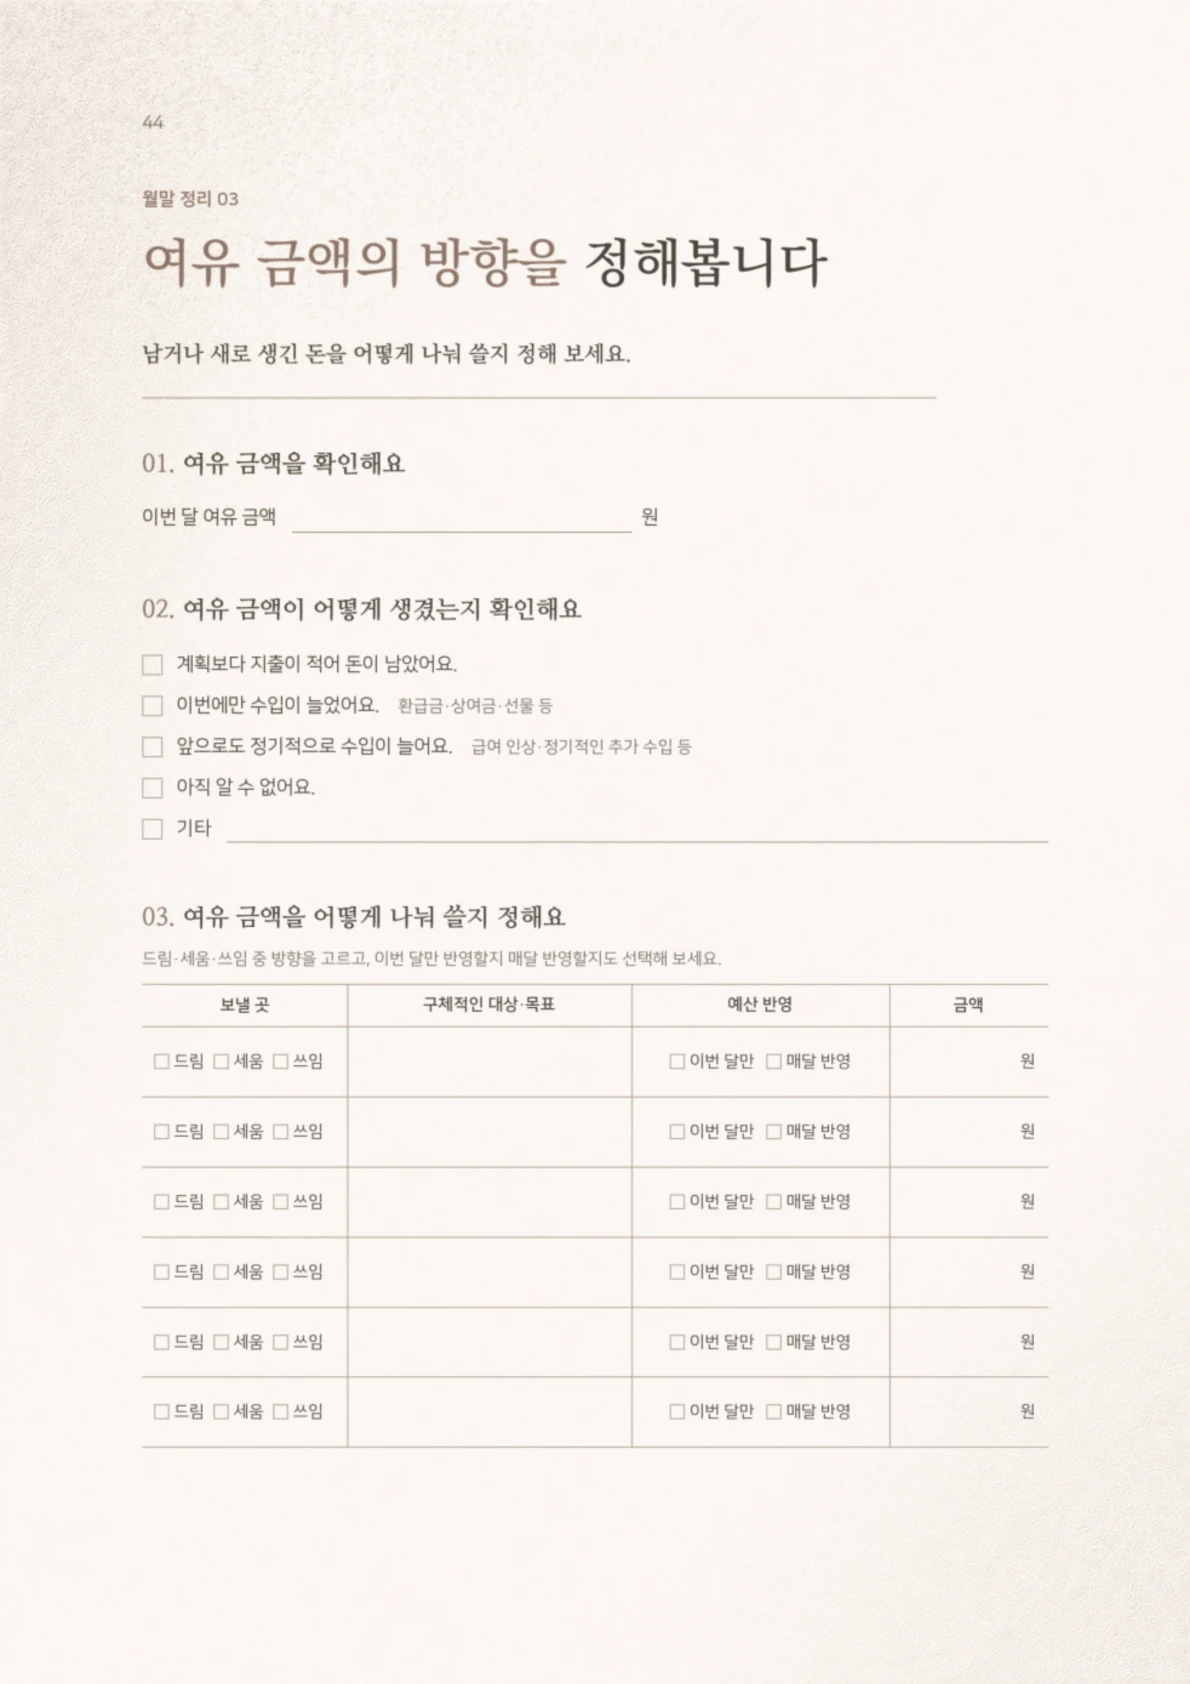
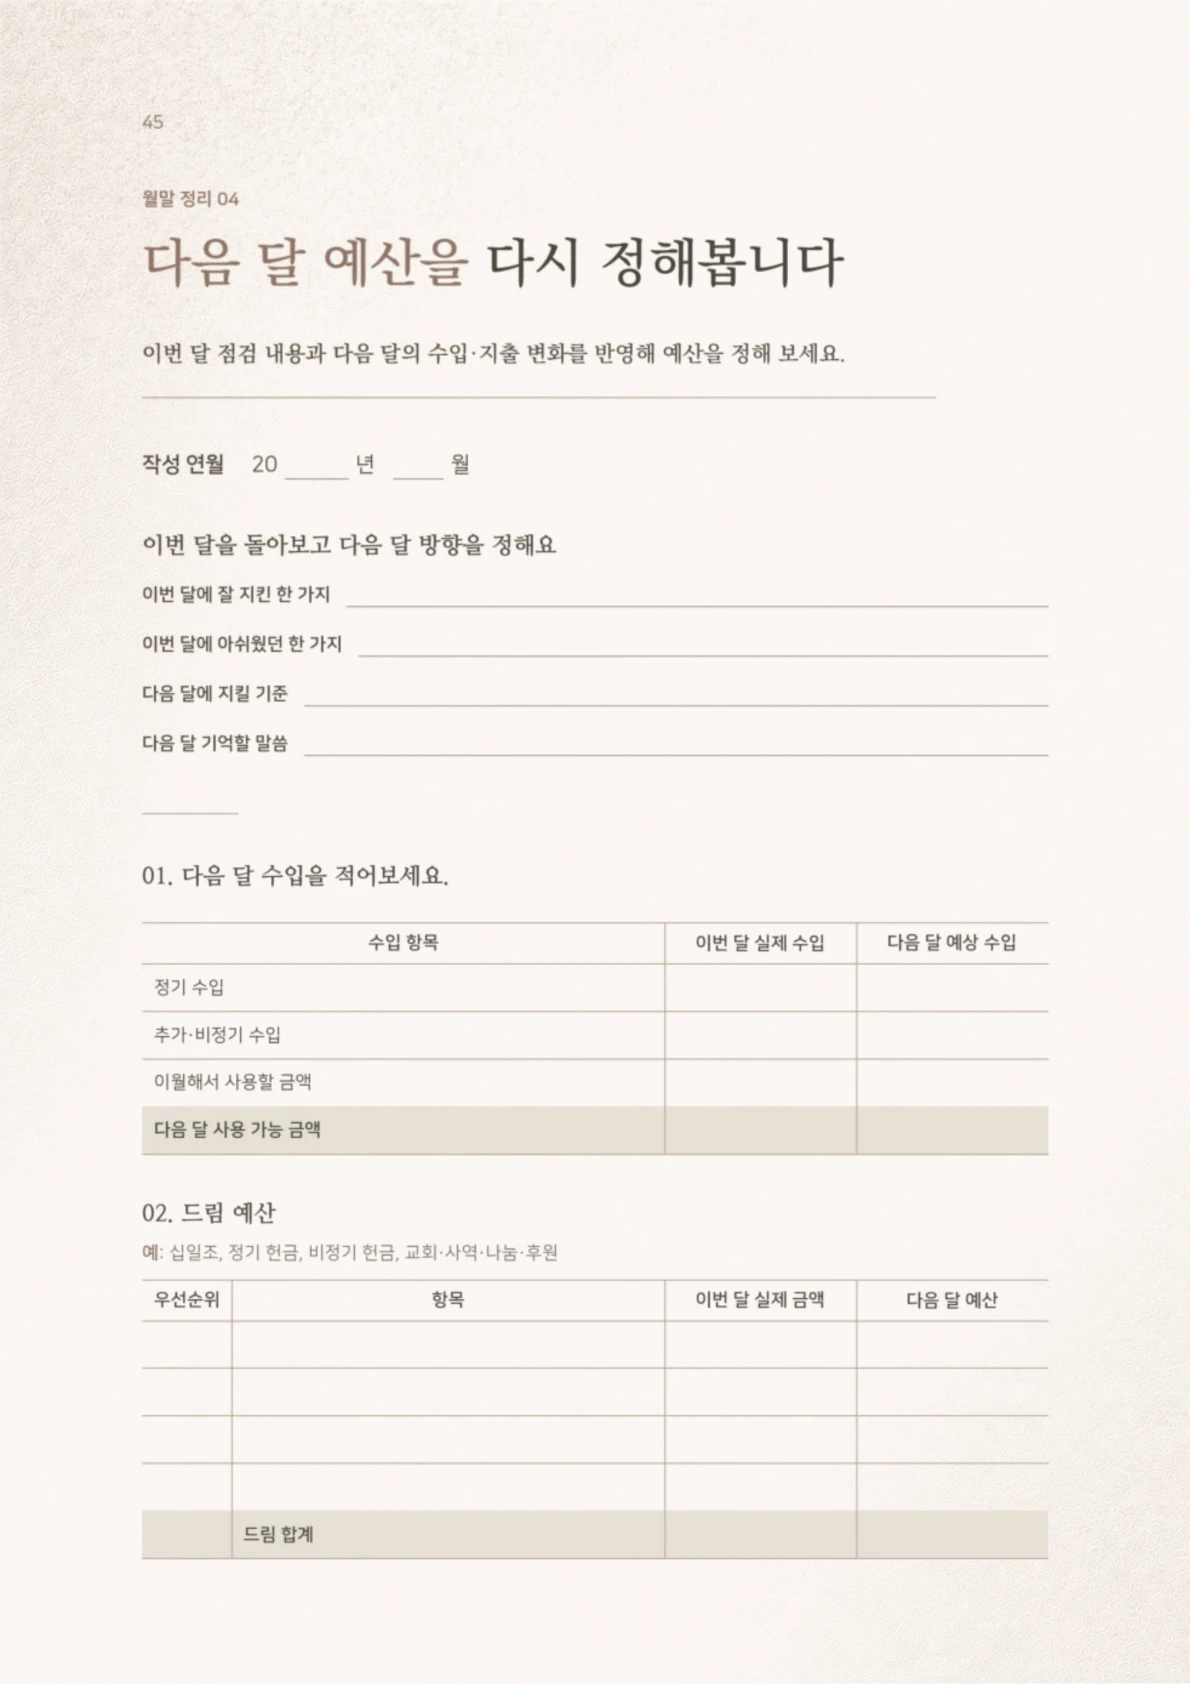
Refine workbook offer and pricing

diff --git a/src/styles.css b/src/styles.css
@@ -690,9 +690,9 @@
 .money-report-offer-page { position: relative; width: min(100%,720px); min-height: 100svh; margin: 0 auto; background: #fffdf9; color: #493c32; }
 .money-report-offer-close { position: sticky; z-index: 3; top: 14px; display: grid; width: 42px; height: 42px; margin: 0 14px -42px auto; place-items: center; border: 1px solid #d8c4b7; border-radius: 50%; background: rgba(255,253,249,.9); color: #493c32; backdrop-filter: blur(8px); cursor: pointer; }
 .money-report-offer-hero { padding: 76px 28px 64px; background: #f3e7e1; color: #493c32; text-align: center; }
-.money-report-offer-hero>p:first-child { margin: 0; color: #9a7664; font-size: 13px; font-weight: 700; letter-spacing: -.01em; }
+.money-report-offer-product-title { margin: 0; color: #765746; font-size: 22px; font-weight: 700; line-height: 1.45; letter-spacing: -.025em; }
 .money-report-offer-hero h2 { margin: 18px auto 0; max-width: 560px; font-family: inherit; font-size: 28px; font-weight: 700; line-height: 1.48; letter-spacing: -.035em; word-break: keep-all; }
-.money-report-result-label { margin: 30px 0 0; color: #765746; font-size: 14px; font-weight: 700; line-height: 1.5; }
+.money-report-result-label { margin: 30px 0 0; color: #765746; font-size: 17px; font-weight: 600; line-height: 1.5; }
 .money-report-type-combination { display: flex; flex-wrap: wrap; align-items: center; justify-content: center; gap: 10px; margin: 12px auto 0; }
 .money-report-type-combination span { padding: 9px 15px; border: 1px solid #d8c4b7; border-radius: 999px; background: #fffdf9; font-size: 15px; font-weight: 650; }
 .money-report-type-combination strong { color: #9a7664; font-size: 17px; }
@@ -716,7 +716,7 @@
 .money-report-difference-grid .money-report-difference-paid { border-color: #bd8b75; background: #f5e8e1; }
 .money-report-difference-grid article>span { color: #765746; font-size: 16px; font-weight: 750; }
 .money-report-product-name { display: block; }
-.money-report-product-name strong { color: #493c32; font-size: 19px; line-height: 1.45; }
+.money-report-product-name strong { color: #493c32; font-size: 19px; font-weight: 600; line-height: 1.45; }
 .money-report-difference-grid ul { display: grid; gap: 12px; margin: 20px 0 0; padding: 0; list-style: none; }
 .money-report-difference-grid li { display: grid; grid-template-columns: 19px 1fr; gap: 8px; color: rgba(73,60,50,.83); font-size: 15px; line-height: 1.65; }
 .money-report-difference-grid li svg { margin-top: 2px; color: #9a7664; }
@@ -746,16 +746,23 @@
 .money-report-workbook-sample>figcaption strong { font-size: 15px; line-height: 1.5; }
 .money-report-offer-footer { padding: 68px 20px 76px; border-top: 1px solid #d8c4b7; background: #f7f0e9; color: #493c32; text-align: center; }
 .money-report-offer-footer>h3 { margin: 0; font-family: "SUIT",ui-sans-serif,system-ui,sans-serif; font-size: 25px; font-weight: 700; line-height: 1.48; letter-spacing: -.03em; word-break: keep-all; }
-.money-report-offer-footer>p { margin: 20px auto 0; color: rgba(73,60,50,.78); font-size: 15px; line-height: 1.72; word-break: keep-all; }
-.money-report-purchase-options { display: grid; gap: 16px; margin-top: 34px; text-align: left; }
-.money-report-purchase-options article { position: relative; display: grid; gap: 10px; padding: 24px 20px; border: 1px solid #ddcfc4; background: #fffdf9; }
-.money-report-purchase-options article>span { padding-right: 4px; font-size: 16px; font-weight: 750; line-height: 1.5; }
-.money-report-purchase-options article>strong { font-size: 29px; line-height: 1.2; }
-.money-report-purchase-options article>small { color: #9a7664; font-size: 13px; line-height: 1.5; text-decoration: line-through; }
+.money-report-workbook-hook-action { margin: 20px auto 0; color: rgba(73,60,50,.82); font-size: 16px; line-height: 1.72; word-break: keep-all; }
+.money-report-workbook-intro { margin-top: 44px; }
+.money-report-workbook-intro h4 { margin: 0; font-family: "SUIT",ui-sans-serif,system-ui,sans-serif; font-size: 25px; font-weight: 700; line-height: 1.48; letter-spacing: -.03em; }
+.money-report-workbook-intro p { margin: 16px auto 0; color: rgba(73,60,50,.78); font-size: 15px; line-height: 1.72; word-break: keep-all; }
+.money-report-workbook-intro span { display: block; margin-top: 10px; color: #9a7664; font-size: 13px; font-weight: 650; }
+.money-report-workbook-samples { display: flex; width: calc(100% + 20px); gap: 14px; margin: 30px -20px 0 0; padding-right: 20px; overflow-x: auto; scroll-snap-type: x mandatory; scrollbar-width: none; text-align: left; }
+.money-report-workbook-samples::-webkit-scrollbar { display: none; }
+.money-report-workbook-samples .money-report-workbook-sample { flex: 0 0 82%; width: auto; margin: 0; scroll-snap-align: start; }
+.money-report-purchase-options { display: grid; gap: 16px; margin-top: 38px; text-align: center; }
+.money-report-purchase-options article { position: relative; display: grid; justify-items: center; gap: 9px; padding: 26px 20px; border: 1px solid #ddcfc4; background: #fffdf9; text-align: center; }
+.money-report-purchase-options article>span { padding: 0; font-size: 19px; font-weight: 700; line-height: 1.5; }
+.money-report-purchase-options article>s { color: #9a7664; font-size: 14px; line-height: 1.5; }
+.money-report-purchase-options article>strong { font-size: 24px; line-height: 1.25; }
+.money-report-purchase-options article>strong small { margin-right: 2px; color: #9a5f49; font-size: 13px; font-weight: 700; line-height: 1.5; }
 .money-report-purchase-options article>.money-report-purchase-button { width: 100%; margin-top: 6px; }
 .money-report-purchase-option-set { border-color: #bd8b75 !important; background: #f5e8e1 !important; }
 .money-report-purchase-option-set>em { width: fit-content; padding: 6px 10px; border-radius: 999px; background: #9a5f49; color: #fff; font-size: 12px; font-style: normal; font-weight: 750; line-height: 1.3; }
-.money-report-workbook-sample--offer { margin-top: 28px; }
 
 @media (max-width: 639px) {
   .money-paid-funnel-section { margin-top: 156px; }

diff --git a/src/routes/s.$slug.tsx b/src/routes/s.$slug.tsx
@@ -2208,7 +2208,7 @@ function MoneyPaidDiagnosisSection({
             </button>
 
             <header className="money-report-offer-hero">
-              <p>11페이지 개인 맞춤 리포트</p>
+              <p className="money-report-offer-product-title">셀라 머니 심층 리포트</p>
               <h2>내 진단 결과로<br />‘나만의 맞춤 리포트’가 만들어집니다</h2>
               <p className="money-report-result-label">나의 실제 진단 결과</p>
               <div className="money-report-type-combination">
@@ -2240,7 +2240,7 @@ function MoneyPaidDiagnosisSection({
                 </article>
                 <article className="money-report-difference-paid">
                   <span className="money-report-product-name">
-                    <strong>셀라 머니 심층 진단지</strong>
+                    <strong>셀라 머니 심층 리포트</strong>
                   </span>
                   <ul>
                     <li><Check size={17} aria-hidden="true" />돈 앞에서 왜 늘 비슷한 생각과 행동을 반복하는지 이해합니다.</li>
@@ -2279,26 +2279,42 @@ function MoneyPaidDiagnosisSection({
             </section>
 
             <footer className="money-report-offer-footer">
-              <h3>나를 이해했다면,<br />이제 나만의 기준으로 돈을 관리할 차례입니다.</h3>
-              <p>셀라 머니 심층 진단지가 반복되는 돈 패턴과 방향을 보여준다면,<br />셀라 머니 워크북은 그 방향을 예산·소비·저축·투자 기준과 가계부 습관으로 옮기도록 돕습니다.</p>
+              <h3>나만의 돈 관리 기준이 생기면,<br />선택은 더 분명해지고 돈 앞의 마음은 한결 평안해집니다.</h3>
+              <p className="money-report-workbook-hook-action">이제 말씀을 바탕으로 나만의 기준을 세우고,<br />하나님이 맡기신 돈을 지혜롭게 관리해보세요.</p>
+              <div className="money-report-workbook-intro">
+                <h4>셀라 머니 워크북</h4>
+                <p>돈 앞의 마음을 돌아보고 말씀의 기준을 세워,<br />나만의 예산과 소비 원칙을 실제 생활에 적용합니다.</p>
+                <span>실행 워크북 · 50페이지</span>
+              </div>
+              <div className="money-report-workbook-samples" aria-label="셀라 머니 워크북 실제 페이지 미리보기">
+                <figure className="money-report-workbook-sample">
+                  <img src="/selah-money-workbook-preview/page-10-money-meaning.webp" alt="나에게 돈이 무엇인지 돌아보는 실제 워크북 10쪽 샘플" loading="lazy" />
+                  <figcaption><span>실제 워크북 10쪽</span><strong>나에게 돈이 무엇인지 돌아봅니다.</strong></figcaption>
+                </figure>
+                <figure className="money-report-workbook-sample">
+                  <img src="/selah-money-workbook-preview/page-24-money-criteria.webp" alt="말씀을 바탕으로 돈 관리 기준을 세우는 실제 워크북 24쪽 샘플" loading="lazy" />
+                  <figcaption><span>실제 워크북 24쪽</span><strong>말씀을 바탕으로 나만의 돈 관리 기준을 세웁니다.</strong></figcaption>
+                </figure>
+                <figure className="money-report-workbook-sample">
+                  <img src="/selah-money-workbook-preview/page-45-next-month-budget.webp" alt="다음 달 수입과 드림·세움·쓰임 예산을 작성하는 실제 워크북 45쪽 샘플" loading="lazy" />
+                  <figcaption><span>실제 워크북 45쪽</span><strong>세운 기준을 다음 달 예산에 적용합니다.</strong></figcaption>
+                </figure>
+              </div>
               <div className="money-report-purchase-options">
                 <article>
-                  <span>셀라 머니 심층 진단지만</span>
-                  <strong>9,900원</strong>
-                  {purchaseButton("footer-report", "심층 진단지 구매하기")}
+                  <span>셀라 머니 심층 리포트</span>
+                  <s>15,000원</s>
+                  <strong><small>런칭가</small> 9,900원</strong>
+                  {purchaseButton("footer-report", "심층 리포트 구매하기")}
                 </article>
                 <article className="money-report-purchase-option-set">
                   <em>가장 추천 · 이해부터 실행까지</em>
-                  <span>심층 진단지 + 셀라 머니 워크북 세트</span>
-                  <strong>34,900원</strong>
-                  <small>개별 런칭가 합계 38,900원</small>
+                  <span>심층 리포트 + 셀라 머니 워크북 세트</span>
+                  <s>개별 구매 38,900원</s>
+                  <strong><small>세트 런칭가</small> 34,900원</strong>
                   <a className="money-report-purchase-button" href="https://selahinsight.co.kr/money-study" target="_blank" rel="noreferrer" data-placement="footer-set">세트 구매하기</a>
                 </article>
               </div>
-              <figure className="money-report-workbook-sample money-report-workbook-sample--offer">
-                <img src="/selah-money-workbook-preview/page-45-next-month-budget.webp" alt="다음 달 수입과 드림·세움·쓰임 예산을 작성하는 실제 워크북 45쪽 샘플" loading="lazy" />
-                <figcaption><span>실제 워크북 45쪽</span><strong>돈의 의미와 삶의 우선순위를 정리하고, 나만의 기준을 실제 예산과 기록에 적용해보세요.</strong></figcaption>
-              </figure>
             </footer>
           </div>
         </div>
